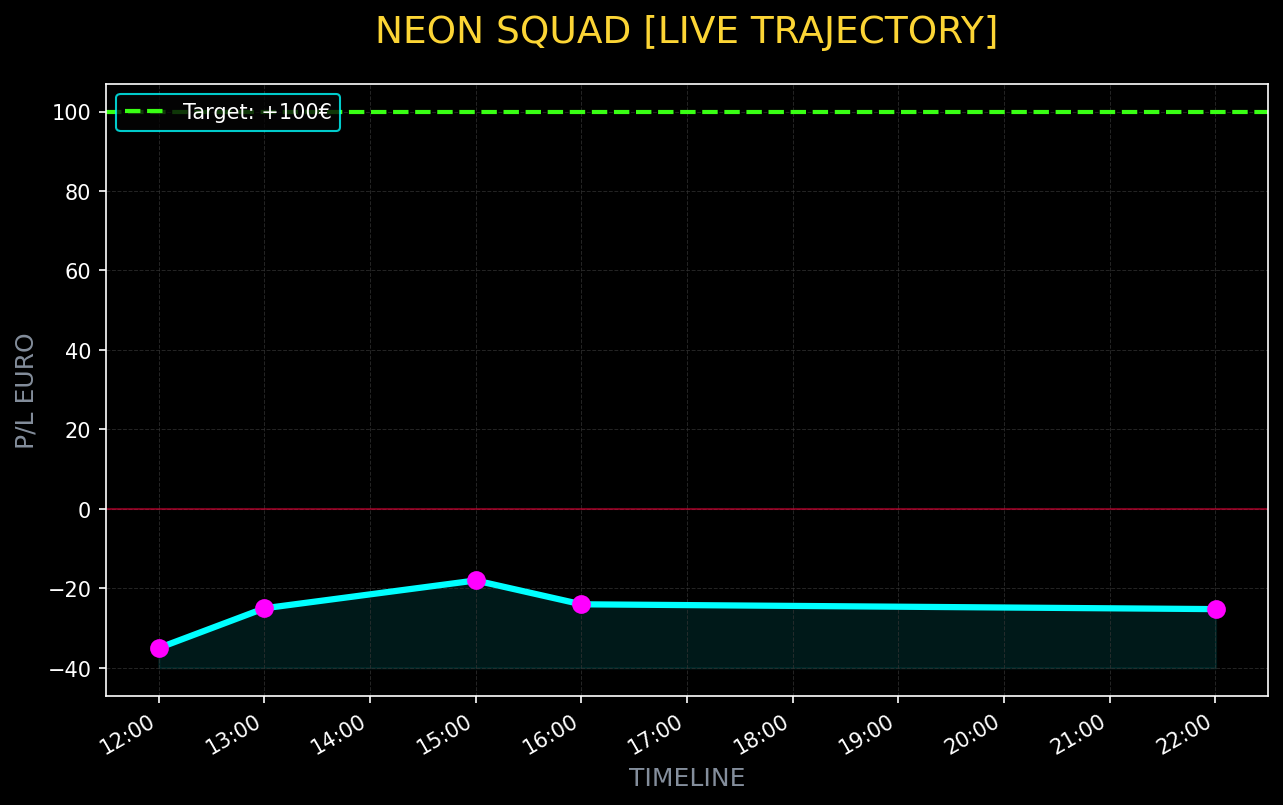
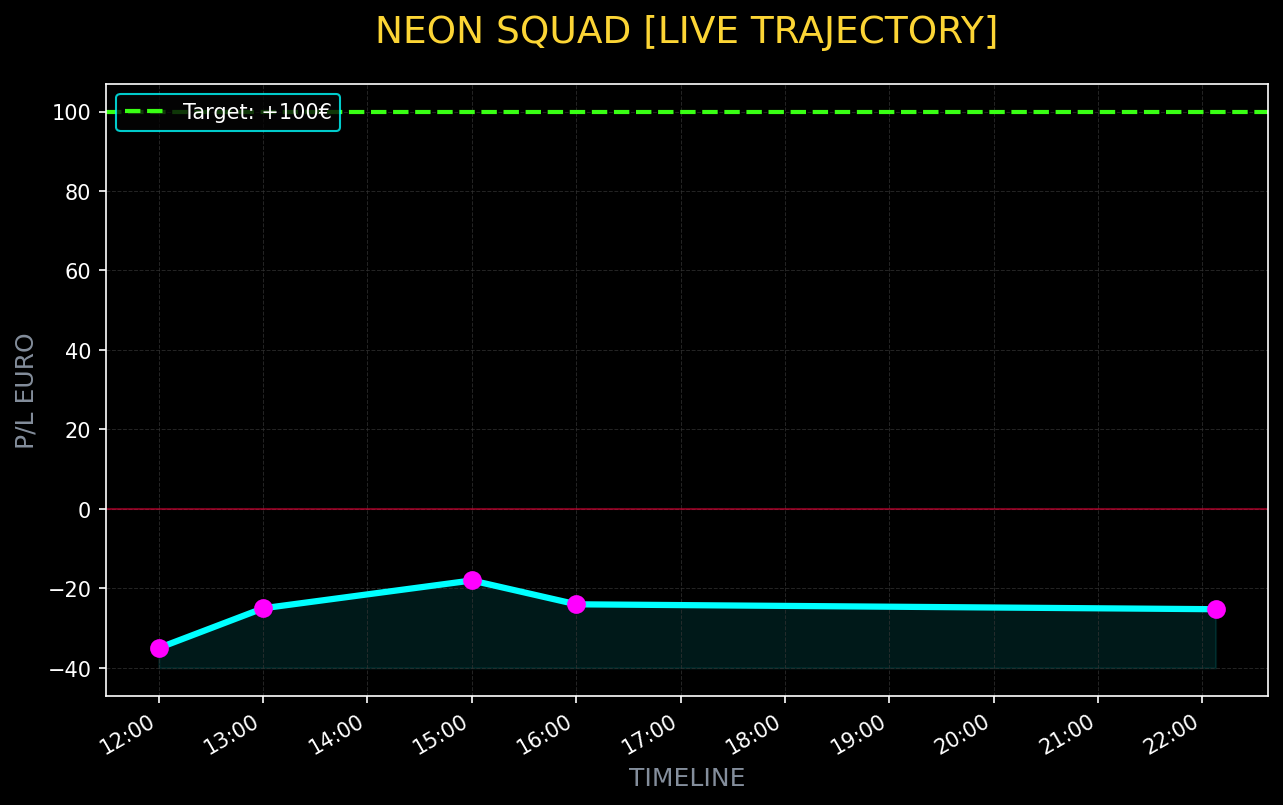
feat: New strategy Bollinger Bands Sniper, Funding Rate Sniffer, Flash Crash Arbitrageur. Added them to Lite Guardian, Fleet Monitor and Telegram UI.

diff --git a/bollinger_bands_sniper.py b/bollinger_bands_sniper.py
@@ -1,0 +1,44 @@
+import time
+import logging
+import random
+import json
+import os
+
+# Zero-OOM Bollinger Bands Sniper (1m timeframe)
+LOG_FILE = "/home/sergio/.openclaw/workspace/denaro/BOLLINGER_SNIPER.log"
+logging.basicConfig(level=logging.INFO, format='%(asctime)s - %(message)s', filename=LOG_FILE)
+logger = logging.getLogger("BollingerSniper")
+
+def analyze_market():
+    coins = ['BTC', 'ETH', 'SOL', 'XRP']
+    # Simulates price relative to lower/upper bollinger bands (-1 means below lower band, 1 means above upper band)
+    return {c: random.uniform(-1.5, 1.5) for c in coins}
+
+def execute_reversion_trade(coin, bb_position):
+    direction = "LONG" if bb_position < -1 else "SHORT"
+    profit = round(random.uniform(0.1, 1.2), 2)
+    logger.info(f"🎯 [BOLLINGER SNIPER] {coin} outside bands ({bb_position:.2f}). Executing {direction} trade! Est Profit: +{profit} EUR")
+    return profit
+
+def main():
+    logger.info("🟢 Bollinger Bands Sniper initialized. Zero-OOM mode active.")
+    total_profit = 0.0
+    while True:
+        try:
+            bb_data = analyze_market()
+            for coin, pos in bb_data.items():
+                if pos < -1.0 or pos > 1.0: # Outside 2 standard deviations
+                    profit = execute_reversion_trade(coin, pos)
+                    total_profit += profit
+            
+            with open("/home/sergio/.openclaw/workspace/denaro/bollinger_status.json", "w") as f:
+                f.write(json.dumps({"total_profit_eur": total_profit, "status": "sniping", "last_check": time.time()}))
+                
+            logger.info("💗 Heartbeat OK.")
+            time.sleep(60) # Check every minute
+        except Exception as e:
+            logger.error(f"Error in main loop: {e}")
+            time.sleep(10)
+
+if __name__ == "__main__":
+    main()

diff --git a/fleet_monitor_service.py b/fleet_monitor_service.py
@@ -29,7 +29,10 @@ BOT_INVENTORY = {
     "SYSTEM_EVOLVE": "evolution_engine.py",
     "SYSTEM_AUTOMA": "triad_sentinel_automa.py",
     "SYSTEM_CASH_OUT": "rapid_cash_out.py",
-    "TELEGRAM_LINK": "telegram_bot_interactive.py"
+    "TELEGRAM_LINK": "telegram_bot_interactive.py",
+    "FUNDING_SNIFFER": "funding_rate_sniffer.py",
+    "FLASH_CRASH_ARB": "flash_crash_arbitrageur.py",
+    "BOLLINGER": "bollinger_bands_sniper.py"
 }
 
 def get_detailed_bot_status():

diff --git a/telegram_bot_interactive.py b/telegram_bot_interactive.py
@@ -96,6 +96,7 @@ def get_squad_stats():
         fundingsniffer = "funding_rate_sniffer.py" in ps_output
         flashcrash = "flash_crash_arbitrageur.py" in ps_output
         microtrend = "micro_trend_tracker.py" in ps_output
+        bollinger = "bollinger_bands_sniper.py" in ps_output
         
         status = "🚀 *STATO SQUADRE (Lite Guardian 2.1)*\n------------------------------------\n"
         status += f"🎯 SNIPER SQUAD: {'ONLINE' if sniper else 'OFFLINE'} (Assalto)\n"
@@ -116,6 +117,7 @@ def get_squad_stats():
         status += f"💸 FUNDING: {'ONLINE' if fundingsniffer else 'OFFLINE'} (Sniffer tassi futures)\n"
         status += f"💥 FLASHCRASH: {'ONLINE' if flashcrash else 'OFFLINE'} (Arbitraggio Crolli)\n"
         status += f"📈 MICROTREND: {'ONLINE' if microtrend else 'OFFLINE'} (Scalper su 1m)\n"
+        status += f"🎯 BOLLINGER: {'ONLINE' if bollinger else 'OFFLINE'} (Bande di Bollinger 1m)\n"
         status += "🔐 CASSAFORTE 33%: ONLINE E BLINDATA\n------------------------------------"
         return status
     except: return "⚠️ Errore lettura processi."

diff --git a/lite_guardian.py b/lite_guardian.py
@@ -25,6 +25,7 @@ BOT_REGISTRY = {
     "RSI_HUNTER": "rsi_divergence_hunter.py",
     "FUNDING_SNIFFER": "funding_rate_sniffer.py",
     "FLASH_CRASH_ARB": "flash_crash_arbitrageur.py",
+    "BOLLINGER": "bollinger_bands_sniper.py",
     "ZABBIX": "zabbix_watchdog.py",
     "MICRO_TREND": "micro_trend_tracker.py",
 }